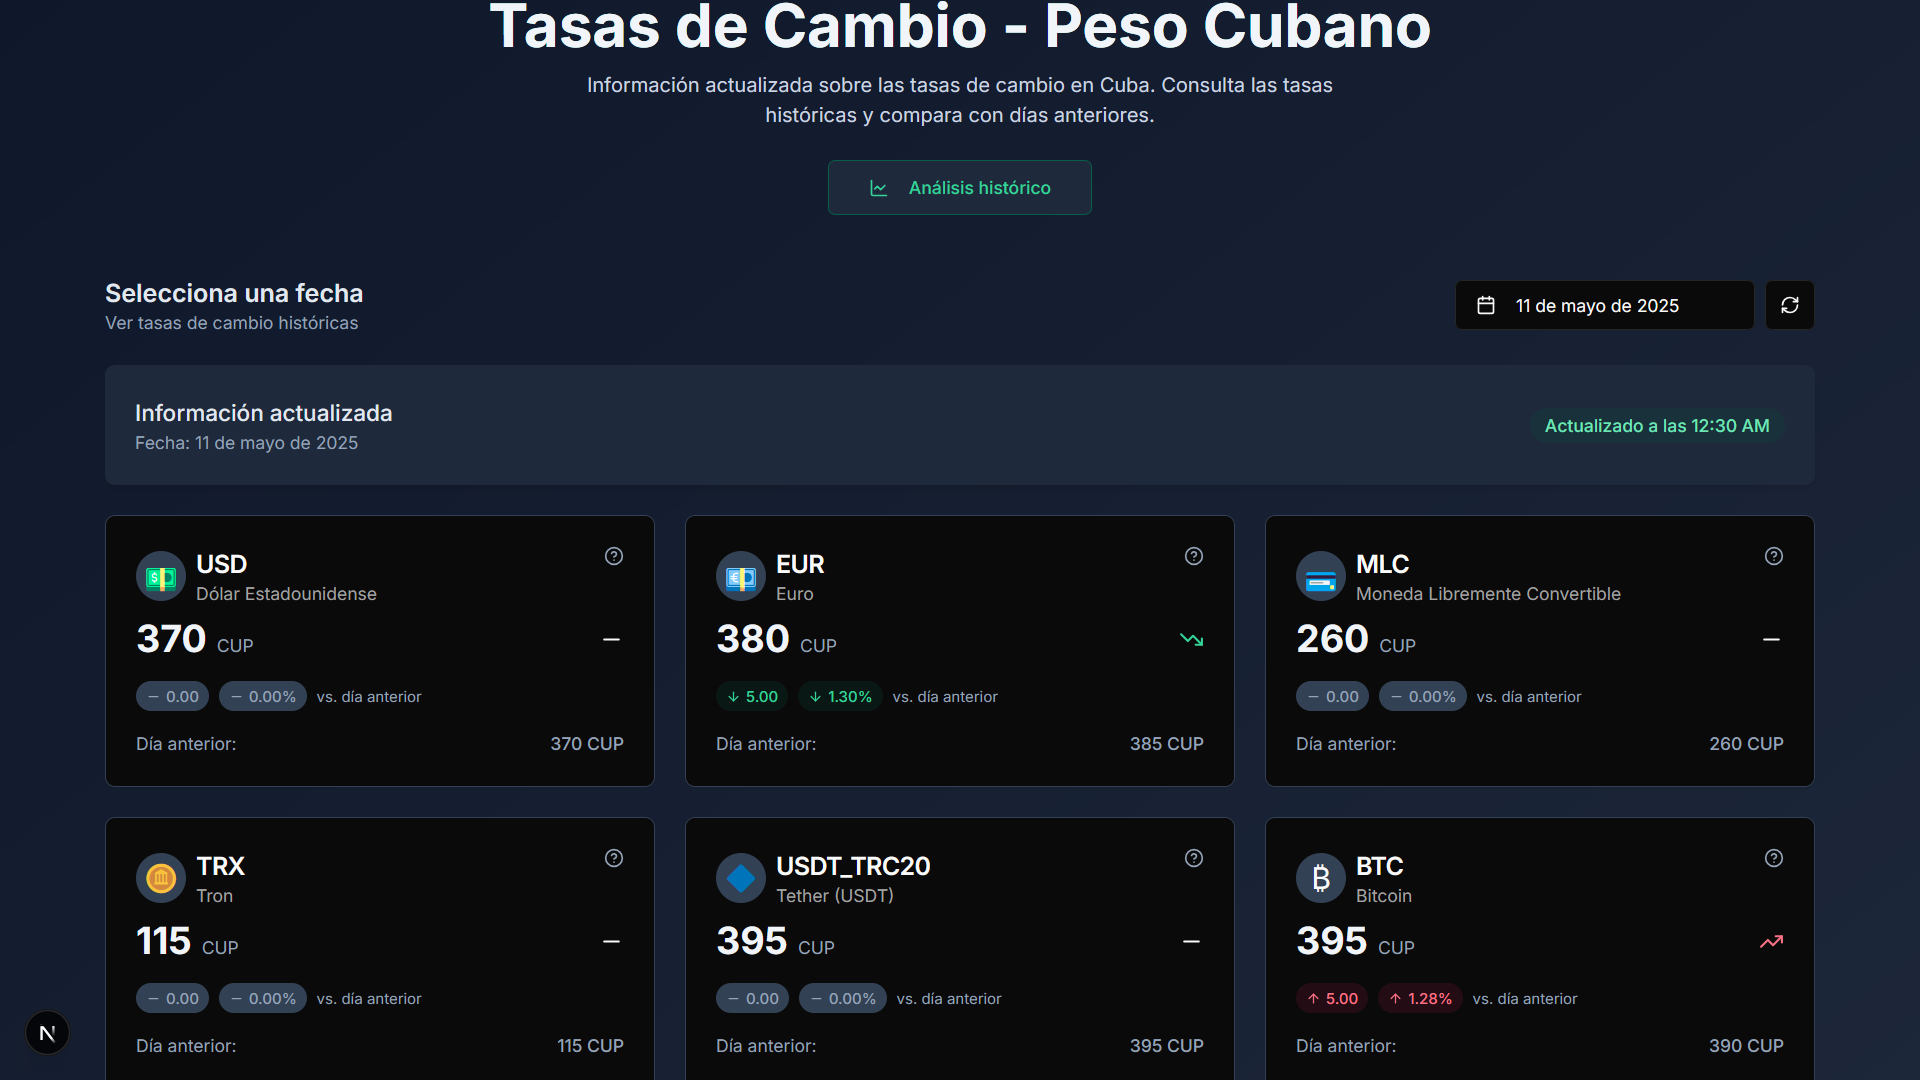
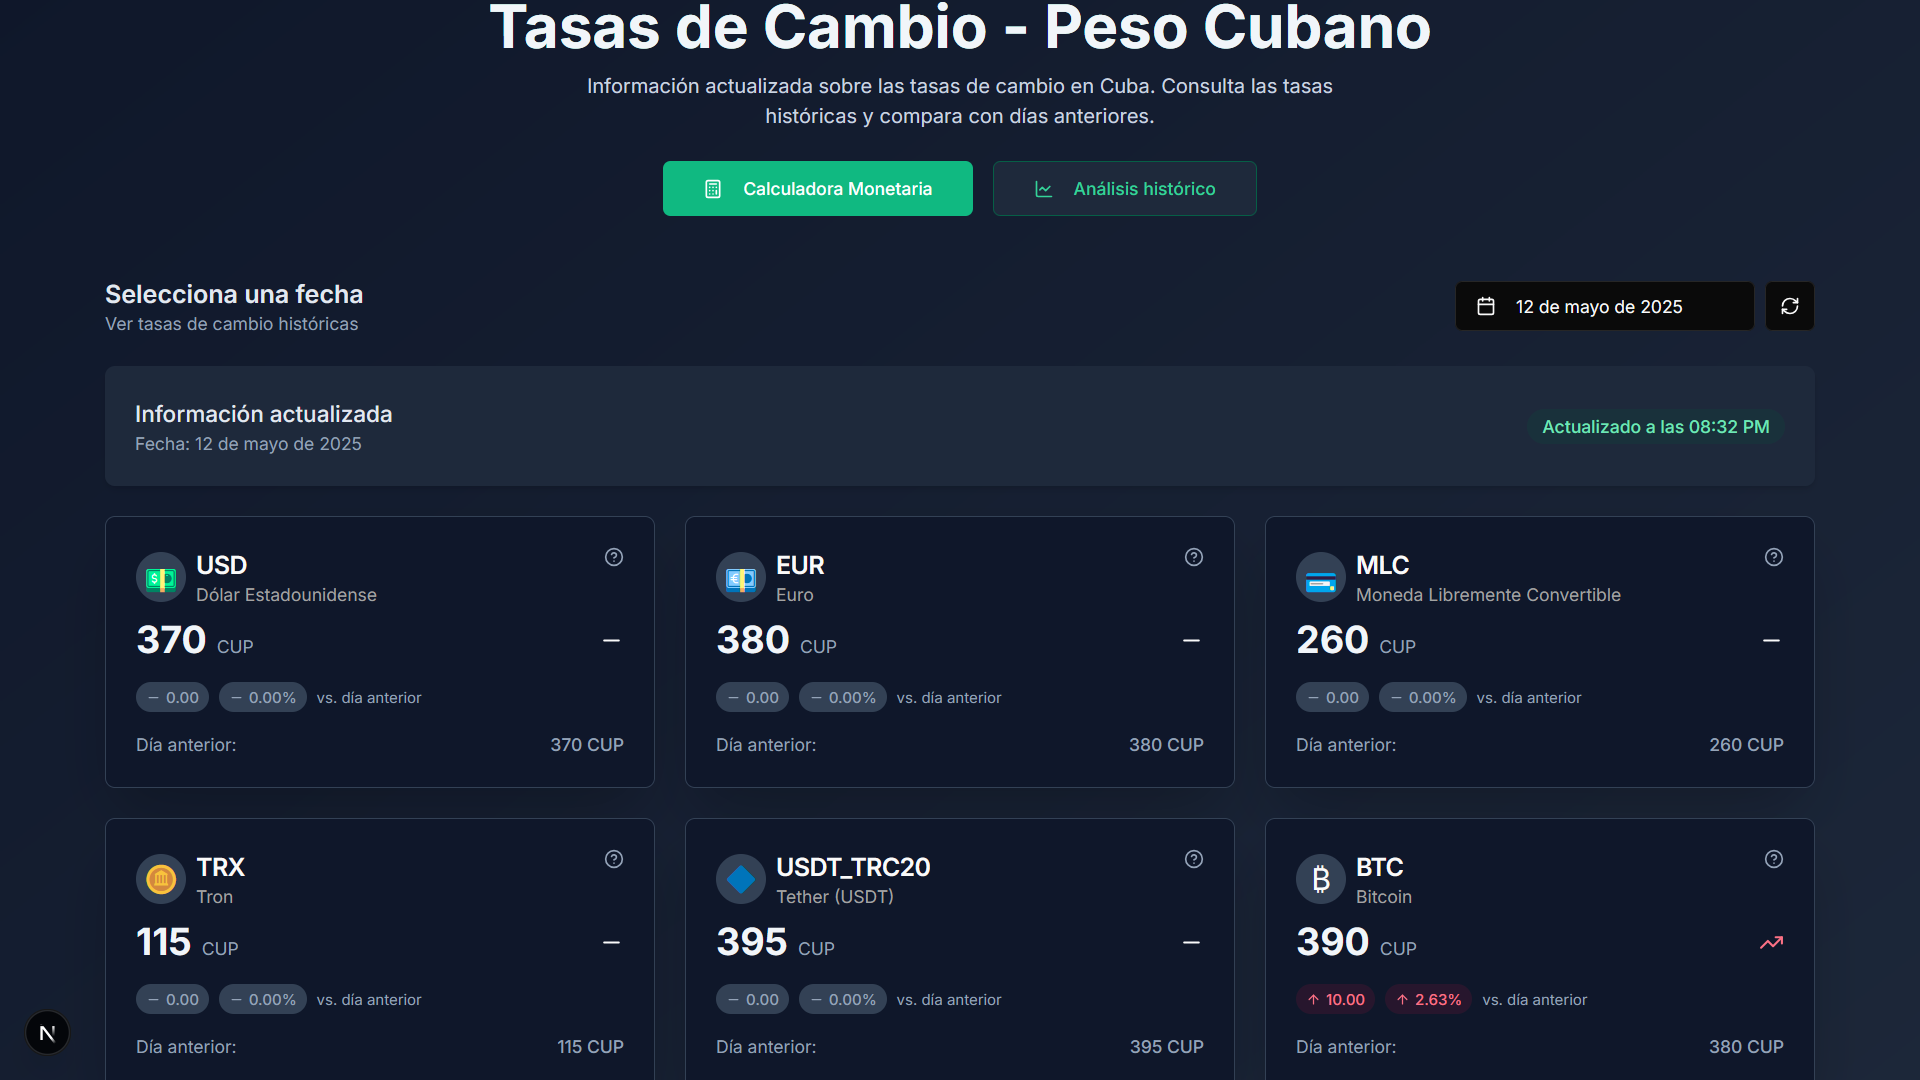
fix: better readme & include calculator docs

diff --git a/README.md b/README.md
@@ -60,6 +60,10 @@ La aplicación está diseñada para ser intuitiva, rápida y accesible, funciona
     - Cálculo automático de diferencias y porcentajes
     - Exportación de datos comparativos en múltiples formatos
 
+- **Calculadora Monetaria**:
+  - Conversión entre pesos cubanos (CUP) y las divisas disponibles.
+  - Cambio de dirección de la conversión.
+
 ### 🌙 Características Generales
 - Diseño responsive adaptado a dispositivos móviles y escritorio
 - Tema oscuro/claro automático (basado en preferencias del sistema)
@@ -114,6 +118,12 @@ La aplicación está desplegada y disponible en: [https://tasas-cuba.vercel.app/
     <tr>
       <td><img src="/assets/comparison.png" alt="Comparación"/></td>
       <td><img src="/assets/graph.png" alt="Análisis Gráfico"/></td>
+    </tr>
+    <tr>
+      <td align="center" colspan="2"><b>Calculadora Monetaria</b></td>
+    </tr>
+    <tr>
+      <td colspan="2"><img src="/assets/calculator.png" alt="Calculator"/></td>
     </tr>
   </table>
 </div>
